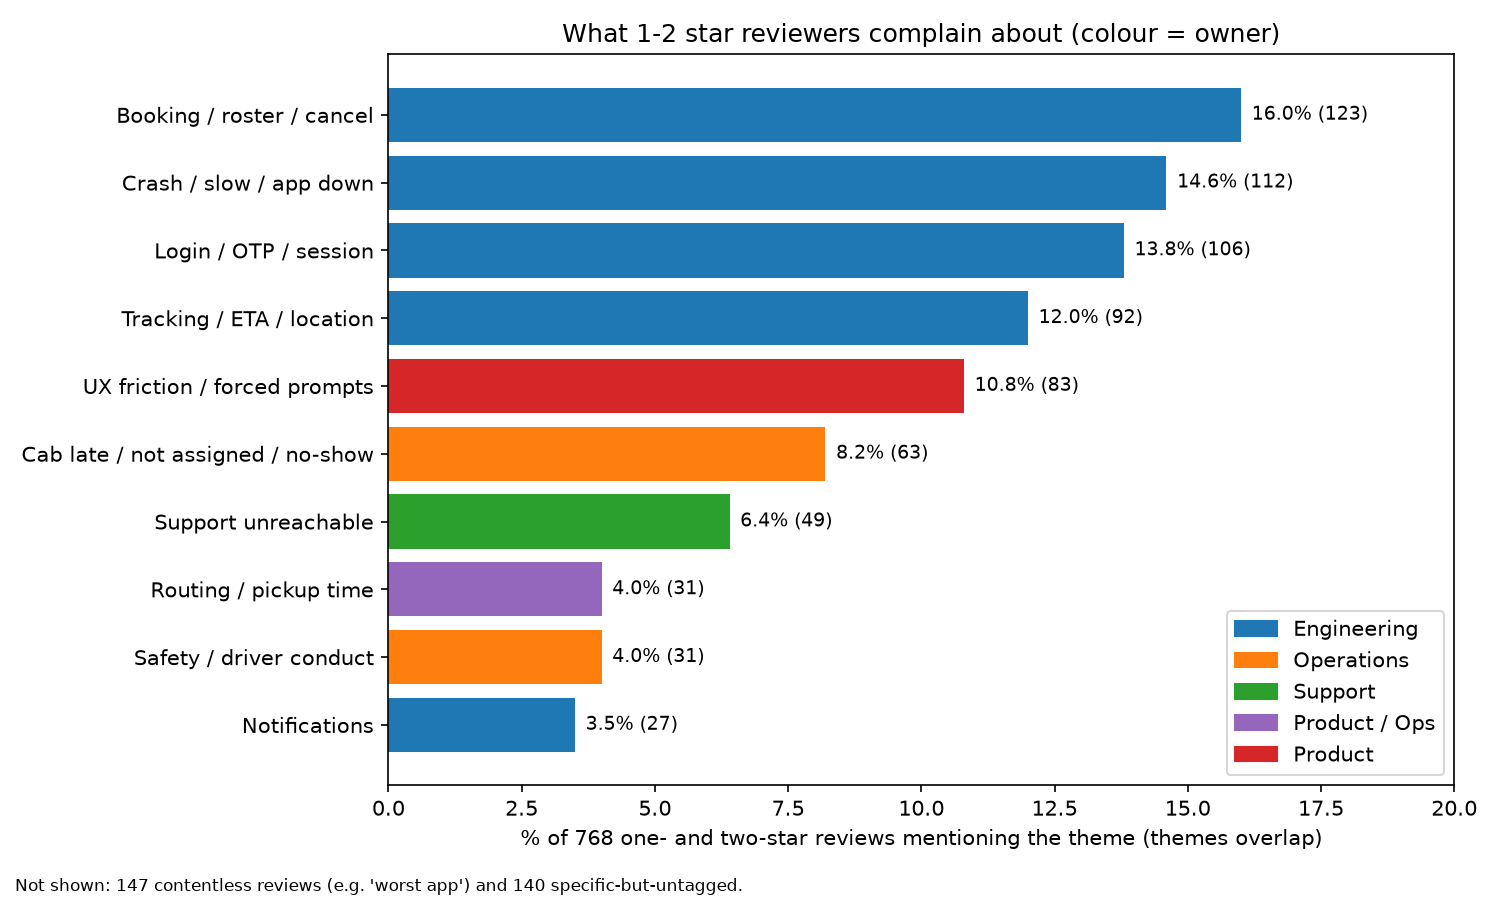
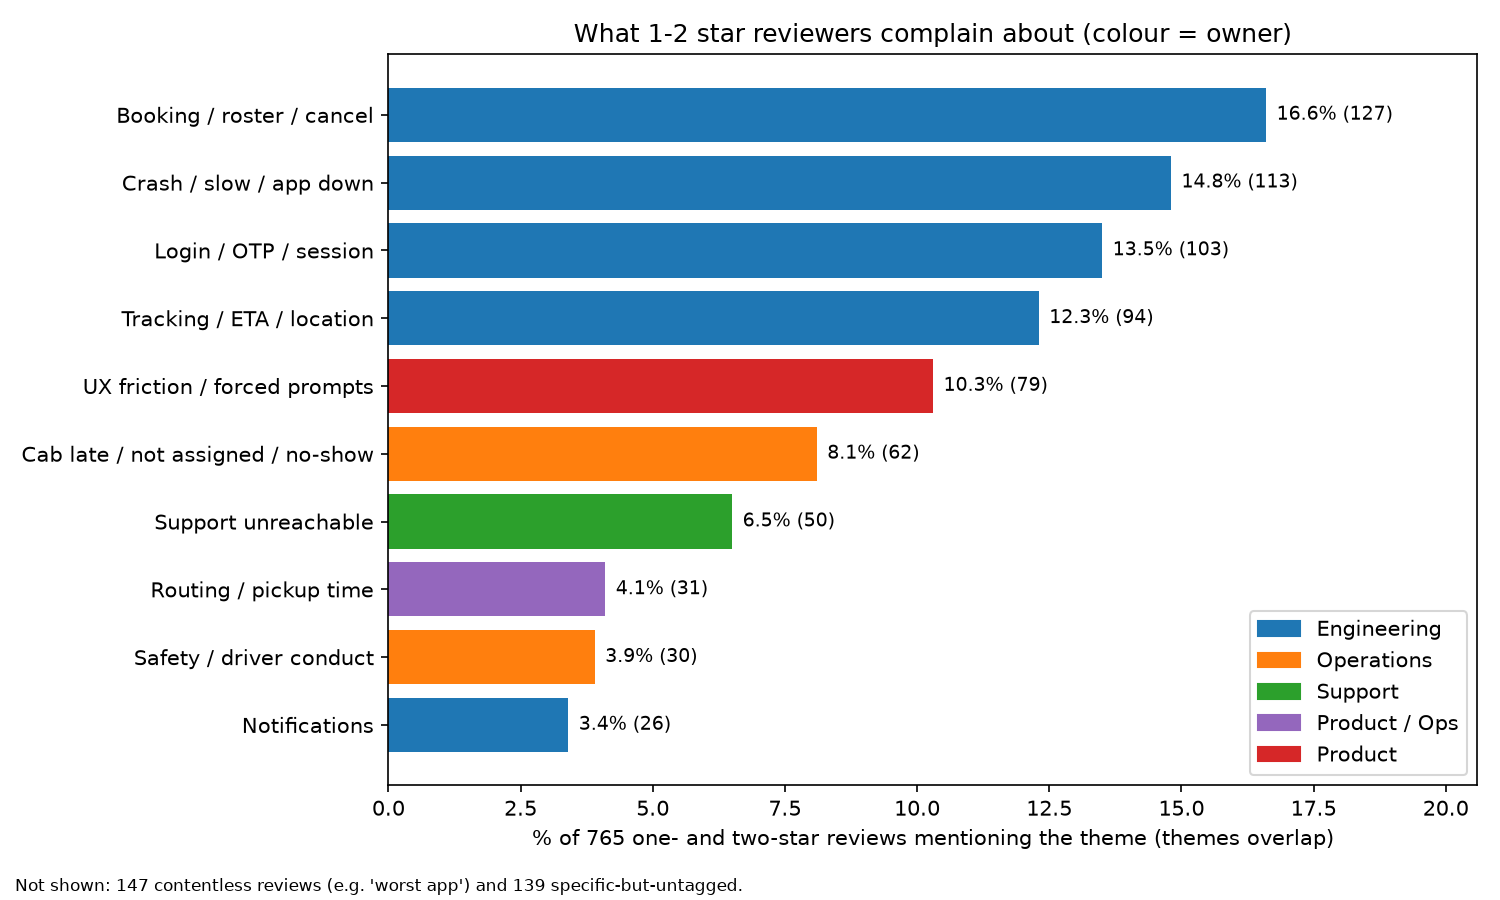
Weekly ratings report 2026-10-26

diff --git a/report.md b/report.md
@@ -1,70 +1,70 @@
-# Play Store ratings report (19 Oct 2026)
-Reviews analysed: 2830 (last 365 days). Average of these reviews: 3.83. 1-2 star share: 27.1%.
+# Play Store ratings report (26 Oct 2026)
+Reviews analysed: 2815 (last 365 days). Average of these reviews: 3.84. 1-2 star share: 27.2%.
 Note: this is the average of scraped reviews, not Play Store's cumulative rating. Cite the store figure separately.
 
 ## Monthly trend
 | month   |   mean |   count |
 |:--------|-------:|--------:|
-| 2025-10 |   3.73 |     146 |
+| 2025-10 |   3.7  |      90 |
 | 2025-11 |   3.68 |     157 |
 | 2025-12 |   3.84 |     196 |
 | 2026-01 |   3.78 |     214 |
 | 2026-02 |   3.73 |     204 |
 | 2026-03 |   3.98 |     196 |
 | 2026-04 |   4.04 |     295 |
-| 2026-05 |   3.99 |     245 |
+| 2026-05 |   4    |     244 |
 | 2026-06 |   3.56 |     273 |
 | 2026-07 |   4.03 |     286 |
 | 2026-08 |   3.65 |     241 |
 | 2026-09 |   3.85 |     243 |
-| 2026-10 |   3.8  |     134 |
+| 2026-10 |   3.83 |     176 |
 
 ## Star distribution
 |   rating |   count |
 |---------:|--------:|
-|        1 |     684 |
-|        2 |      84 |
-|        3 |      72 |
-|        4 |     175 |
-|        5 |    1815 |
+|        1 |     678 |
+|        2 |      87 |
+|        3 |      68 |
+|        4 |     170 |
+|        5 |    1812 |
 
 ## Versions with >= 50 reviews, lowest first
 | version   |   mean |   count |
 |:----------|-------:|--------:|
 | 12.7.2    |   3.62 |      93 |
+| 12.20.0   |   3.64 |      66 |
 | 12.8.3    |   3.68 |     105 |
 | 12.13.1   |   3.68 |      95 |
 | 12.9.4    |   3.7  |      81 |
-| 12.19.0   |   3.74 |     122 |
 | 12.17.0   |   3.74 |     142 |
-| 12.6      |   3.79 |     249 |
-| 12.14.1   |   3.82 |     142 |
+| 12.6      |   3.77 |     201 |
+| 12.19.0   |   3.77 |     122 |
 
 ## Themes in 1-2 star reviews (multi-label, so shares overlap)
 | Theme                                  | Stage                | Owner         |   Mentions |   1-2 star reviews |   Share of 1-2 star % |   Avg stars when mentioned |
 |:---------------------------------------|:---------------------|:--------------|-----------:|-------------------:|----------------------:|---------------------------:|
-| Contentless (short, no specific issue) | -                    | -             |       1598 |                147 |                  19.1 |                       4.57 |
-| Other (specific, untagged)             | -                    | -             |        448 |                140 |                  18.2 |                       3.64 |
-| Booking / roster / cancel              | Self-booking         | Engineering   |        183 |                123 |                  16   |                       2.21 |
-| Crash / slow / app down                | App stability        | Engineering   |        148 |                112 |                  14.6 |                       1.84 |
-| Login / OTP / session                  | Onboarding / session | Engineering   |        130 |                106 |                  13.8 |                       1.61 |
-| Tracking / ETA / location              | Live tracking        | Engineering   |        182 |                 92 |                  12   |                       2.82 |
-| UX friction / forced prompts           | UX                   | Product       |        189 |                 83 |                  10.8 |                       3.12 |
-| Cab late / not assigned / no-show      | Pickup               | Operations    |         79 |                 63 |                   8.2 |                       1.76 |
-| Support unreachable                    | Issue resolution     | Support       |         55 |                 49 |                   6.4 |                       1.47 |
-| Safety / driver conduct                | Boarding / ride      | Operations    |         52 |                 31 |                   4   |                       2.52 |
-| Routing / pickup time                  | Routing              | Product / Ops |         41 |                 31 |                   4   |                       1.95 |
-| Notifications                          | Pre-ride             | Engineering   |         41 |                 27 |                   3.5 |                       2.34 |
+| Contentless (short, no specific issue) | -                    | -             |       1597 |                147 |                  19.2 |                       4.57 |
+| Other (specific, untagged)             | -                    | -             |        439 |                139 |                  18.2 |                       3.63 |
+| Booking / roster / cancel              | Self-booking         | Engineering   |        185 |                127 |                  16.6 |                       2.17 |
+| Crash / slow / app down                | App stability        | Engineering   |        148 |                113 |                  14.8 |                       1.83 |
+| Login / OTP / session                  | Onboarding / session | Engineering   |        127 |                103 |                  13.5 |                       1.62 |
+| Tracking / ETA / location              | Live tracking        | Engineering   |        183 |                 94 |                  12.3 |                       2.8  |
+| UX friction / forced prompts           | UX                   | Product       |        185 |                 79 |                  10.3 |                       3.17 |
+| Cab late / not assigned / no-show      | Pickup               | Operations    |         77 |                 62 |                   8.1 |                       1.74 |
+| Support unreachable                    | Issue resolution     | Support       |         57 |                 50 |                   6.5 |                       1.53 |
+| Routing / pickup time                  | Routing              | Product / Ops |         41 |                 31 |                   4.1 |                       1.95 |
+| Safety / driver conduct                | Boarding / ride      | Operations    |         51 |                 30 |                   3.9 |                       2.55 |
+| Notifications                          | Pre-ride             | Engineering   |         39 |                 26 |                   3.4 |                       2.33 |
 
 ## Developer replies to 1-2 star reviews
-25 of 768 replied (3.3%).
+25 of 765 replied (3.3%).
 
 ## Detailed negative reviews with most upvotes (candidate tickets)
-- (1*, v12.6) App has very poor logic of setting zoom level and automatically reset it every 30 seconds. When user is waiting for cab at source why you want to keep the destination also in the view? which makes impossible to see how far the cab is. suggestion to keep one point at a time in focus while boarding pickup point and vehicle and once you start the trip
 - (1*, v12.13.1) The GPS tracking system is often unreliable and sometimes shows the driver at an incorrect location, which can lead to unnecessary delays. In addition, the estimated arrival time displayed by the GPS tracker is frequently inaccurate, and the pickup time is rarely synchronized correctly. This has occasionally resulted in missed cab pickups. Notifica
-- (1*, vunknown) The service is extremely disappointing and unreliable. Customer support is useless—the representative who attended my call was rude, unprofessional, and did not attempt to resolve the issue. The app also shows incorrect timings for cab assignment and pickup, which change automatically and cause confusion. Nothing about the service feels trustworthy
-- (1*, v12.8.3) This app is the worst. Not able to login via phone/email as the OTP is not received. The most disgusting thing is, it won't give any message whether the user's mobile/email is registered or not. Without this basic information, how can one know that their details are registered.
+- (1*, v12.6) App has very poor logic of setting zoom level and automatically reset it every 30 seconds. When user is waiting for cab at source why you want to keep the destination also in the view? which makes impossible to see how far the cab is. suggestion to keep one point at a time in focus while boarding pickup point and vehicle and once you start the trip
 - (1*, v12.14.1) I had a suggestion to add a smart notification feature to remind the user for check-in after the vehicle crosses their pickup point. Sometimes, the vehicle arrives late or we miss by mistake to check-in, then we are marked as "No show" and it comes as a surprise. Introducing this one feature will help a lot for both transportation and end users. Th
+- (1*, vunknown) The service is extremely disappointing and unreliable. Customer support is useless—the representative who attended my call was rude, unprofessional, and did not attempt to resolve the issue. The app also shows incorrect timings for cab assignment and pickup, which change automatically and cause confusion. Nothing about the service feels trustworthy
 - (2*, v12.8.2) Most frustrating aspect of this app is, when cab is waiting for you and you are in hurry, you will be logged out with no access to cab number/otp/call option to helpdesk etc. We do get regular SMS but what if we have to contact driver/help desk?? This is possible once when we can access the app!!! App team should be mindful about the frequency of l
-- (1*, v12.9.1) Unable to view the schedule for the whole month even though the schedule is done a month prior. Only the following / next schedule is shown. Reinstalled app multiple times!
+- (1*, v12.8.3) This app is the worst. Not able to login via phone/email as the OTP is not received. The most disgusting thing is, it won't give any message whether the user's mobile/email is registered or not. Without this basic information, how can one know that their details are registered.
 - (1*, v12.14.1) The recent updates in the UI have made the app very difficult to use. Booking a shuttle is now a 2 step process previously it used to be 1. I got confused and thought I had booked a cab while I hadn't. Was too late in realising that. Such major changes need to be released in a better way rather than just throwing them in the user's face. Another ba
+- (1*, v12.9.1) Unable to view the schedule for the whole month even though the schedule is done a month prior. Only the following / next schedule is shown. Reinstalled app multiple times!
